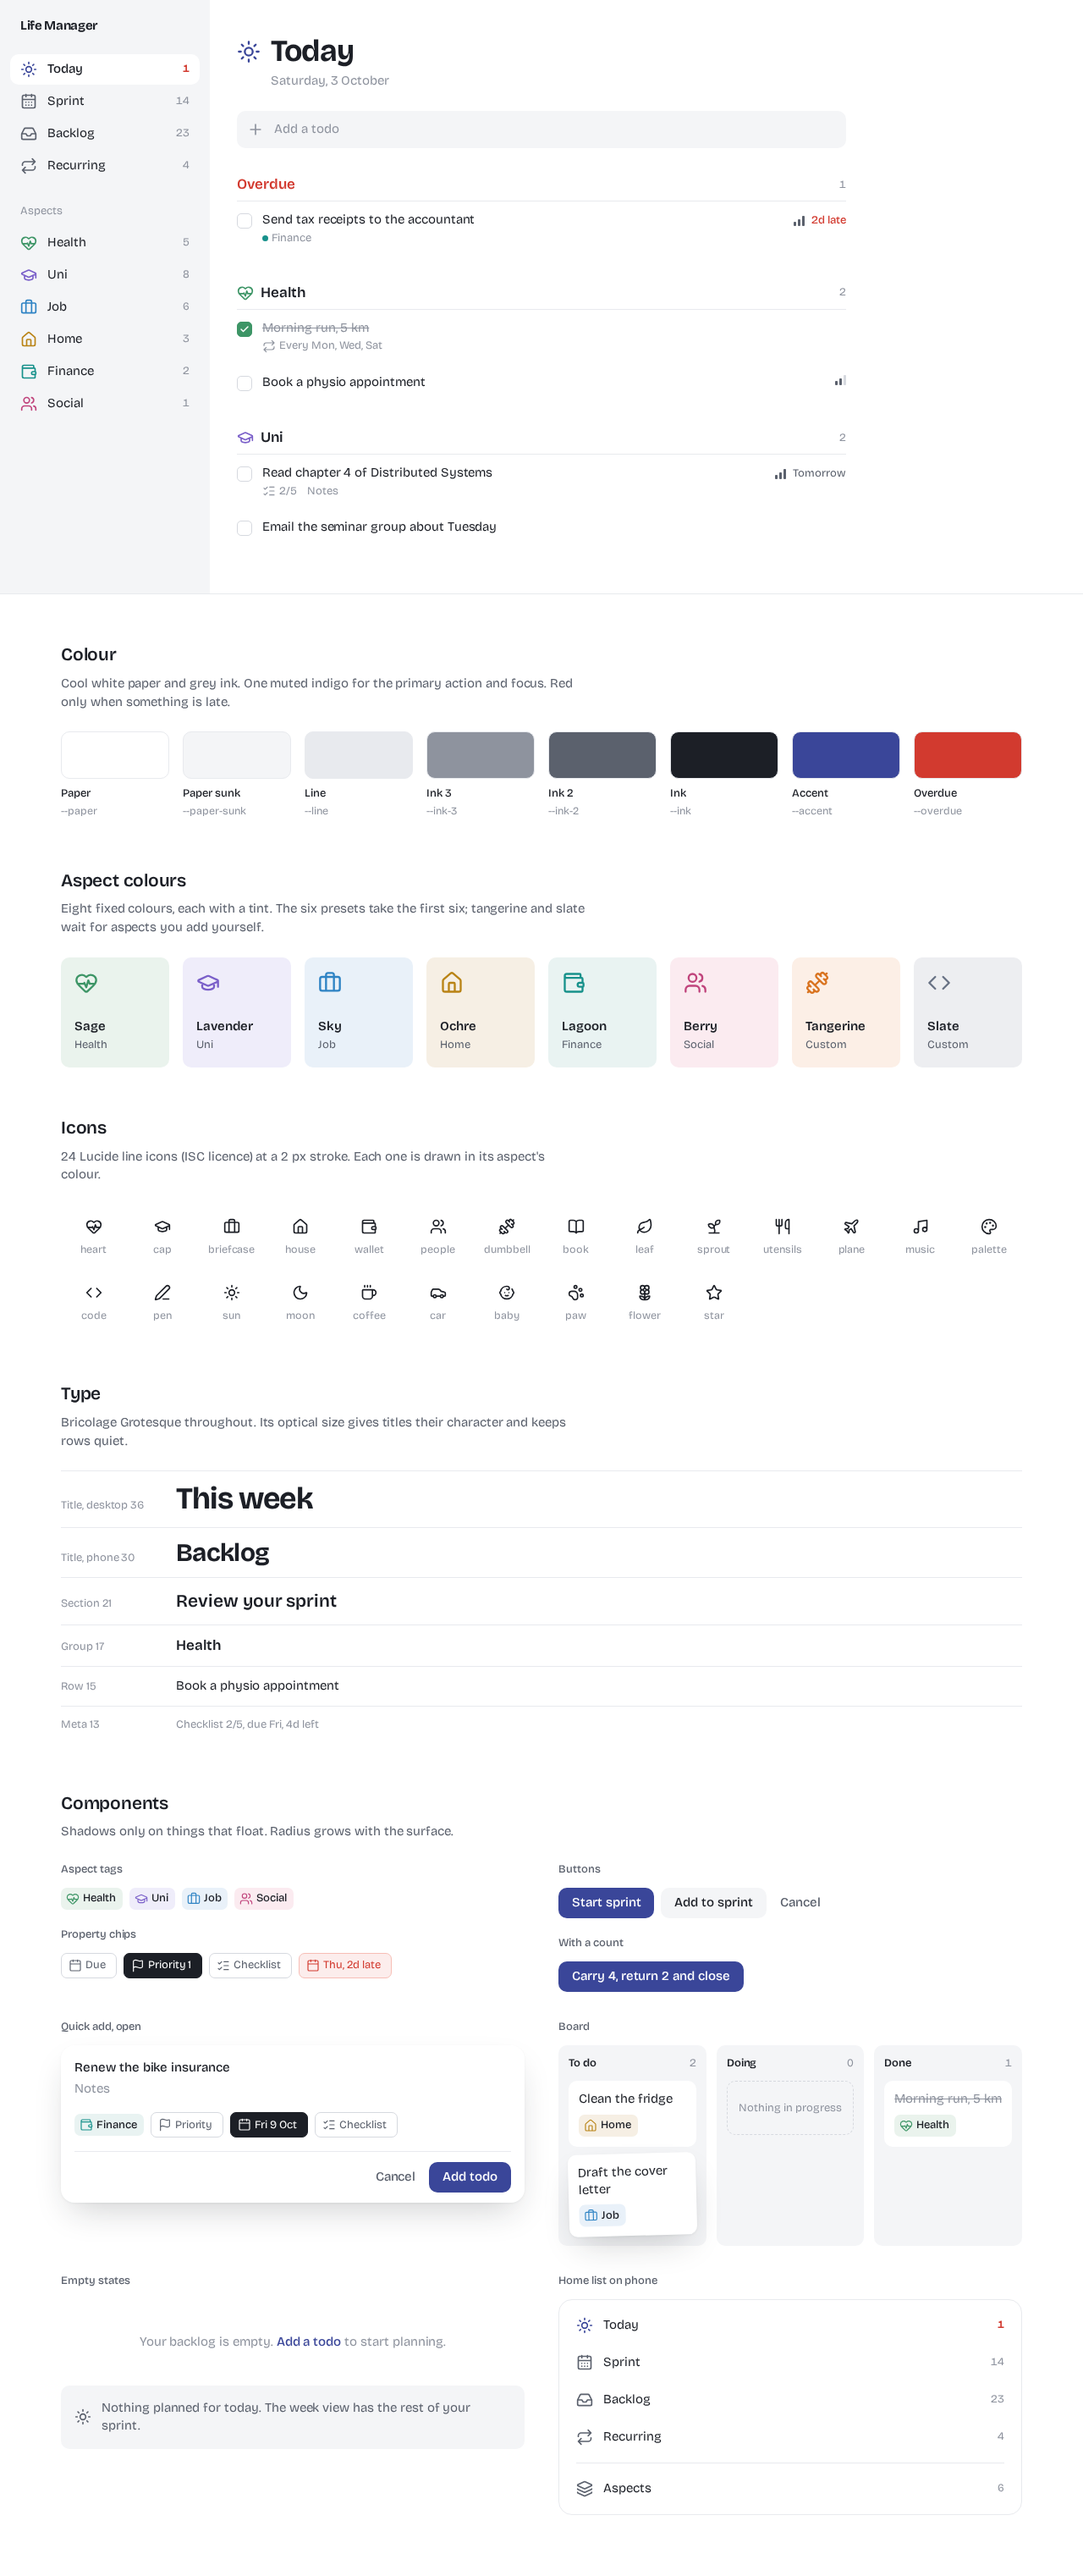
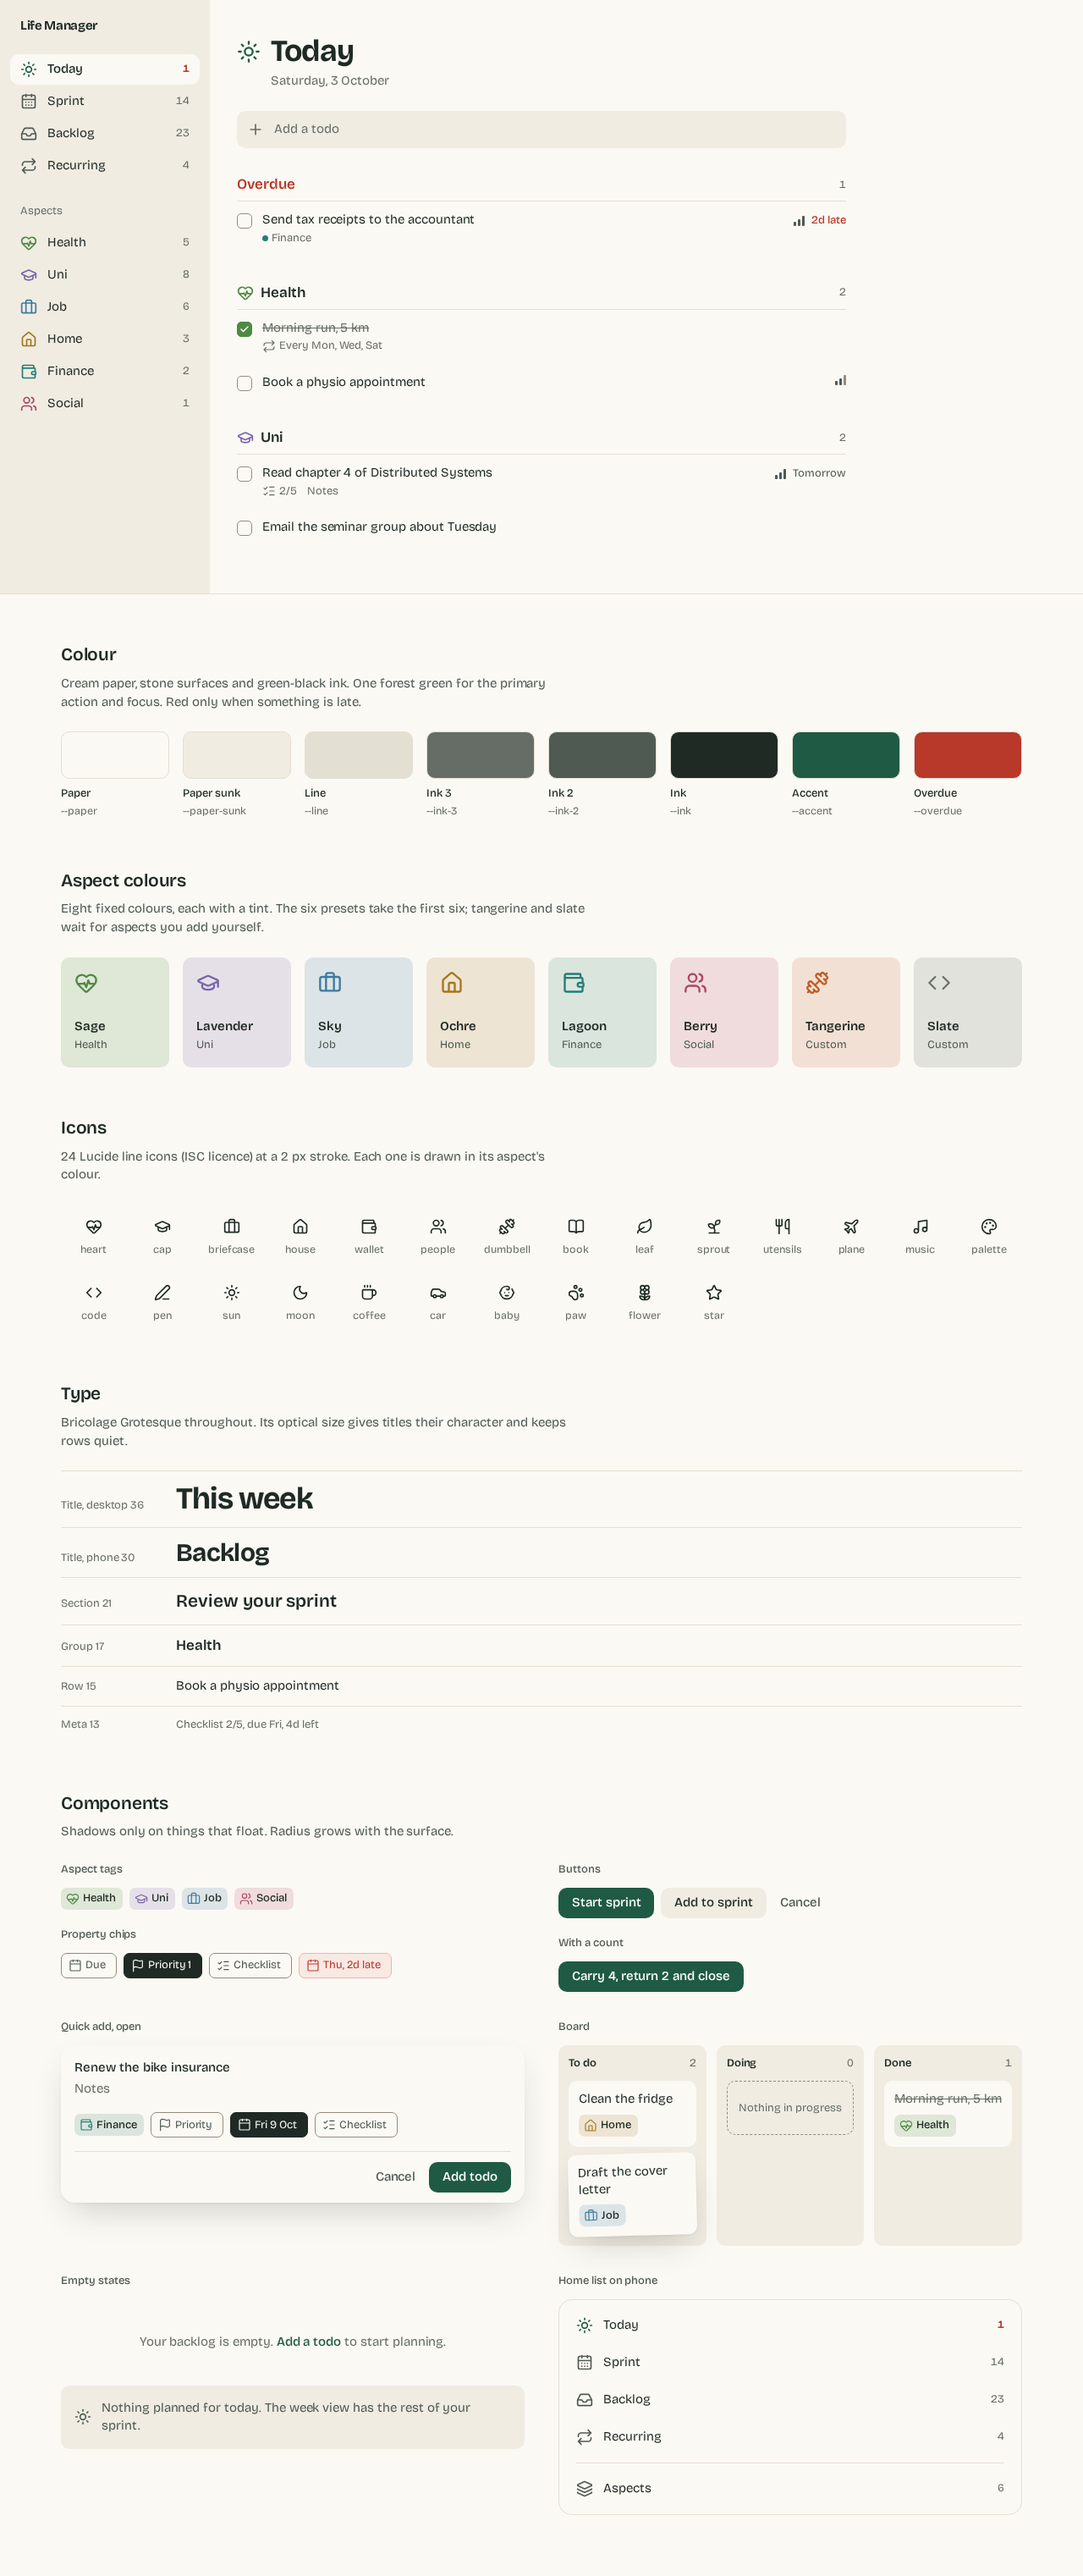
flow(build-life-manager): fold palette C into tokens, checkbox outline to 3:1

diff --git a/src/lib/styles/tokens.css b/src/lib/styles/tokens.css
@@ -7,45 +7,48 @@
 :root {
 	color-scheme: light;
 
-	/* Neutrals: cool paper, never cream; ink is a true dark grey, not tinted black. */
-	--paper: #ffffff;
-	--paper-sunk: #f4f5f7;
-	--paper-hover: #f7f8fa;
-	--paper-scrim: rgb(28 31 38 / 0.18);
-	--line: #e8eaee;
-	--line-strong: #d6d9df;
-	--ink: #1c1f26;
-	--ink-2: #5b616d;
-	--ink-3: #8e939e;
+	/* Neutrals: cream page, stone-beige sunk surfaces, green-black ink (palette C, Lifesum). */
+	--paper: #fbf9f4;
+	--paper-sunk: #f0ece2;
+	--paper-hover: #f6f3ec;
+	--paper-scrim: rgb(35 45 38 / 0.18);
+	--line: #e4dfd3;
+	/* Darkest stone that still reads calm: the unchecked checkbox outline needs 3:1 on paper and paper-hover. */
+	--line-strong: #948c7d;
+	--ink: #1f2a24;
+	--ink-2: #4f5a53;
+	--ink-3: #666d66;
 	--ink-on-accent: #ffffff;
 
-	/* The one accent: a muted indigo, for the primary action, focus and "today". */
-	--accent: #3a4699;
-	--accent-hover: #2f3a85;
-	--accent-soft: #eceefa;
+	/* The one accent: deep forest green, for the primary action, focus and "today". */
+	--accent: #1f5a44;
+	--accent-hover: #174836;
+	--accent-soft: #e4ede6;
 
 	/* Red is reserved for overdue. */
-	--overdue: #d23a2f;
-	--overdue-soft: #fcedec;
+	--overdue: #b8382a;
+	--overdue-soft: #f8e9e3;
 
-	/* Aspect palette — the only saturated colours in the app. Keys match ASPECT_COLORS. */
-	--aspect-sage: #3d9566;
-	--aspect-sky: #2e83c4;
-	--aspect-lavender: #7a5fc9;
-	--aspect-ochre: #b98314;
-	--aspect-berry: #c0447c;
-	--aspect-lagoon: #17918b;
-	--aspect-tangerine: #d9731f;
-	--aspect-slate: #677184;
+	/* Aspect palette — the only saturated colours in the app. Keys match ASPECT_COLORS.
+	   Botanical, a little desaturated so they sit on cream without glowing. */
+	--aspect-sage: #4f8a43;
+	--aspect-sky: #3c7aa0;
+	--aspect-lavender: #7964a8;
+	--aspect-ochre: #a47718;
+	--aspect-berry: #a94866;
+	--aspect-lagoon: #237e74;
+	--aspect-tangerine: #bd5f26;
+	--aspect-slate: #6a7369;
 
-	--aspect-sage-tint: color-mix(in oklch, var(--aspect-sage) 11%, var(--paper));
-	--aspect-sky-tint: color-mix(in oklch, var(--aspect-sky) 11%, var(--paper));
-	--aspect-lavender-tint: color-mix(in oklch, var(--aspect-lavender) 11%, var(--paper));
-	--aspect-ochre-tint: color-mix(in oklch, var(--aspect-ochre) 13%, var(--paper));
-	--aspect-berry-tint: color-mix(in oklch, var(--aspect-berry) 11%, var(--paper));
-	--aspect-lagoon-tint: color-mix(in oklch, var(--aspect-lagoon) 11%, var(--paper));
-	--aspect-tangerine-tint: color-mix(in oklch, var(--aspect-tangerine) 12%, var(--paper));
-	--aspect-slate-tint: color-mix(in oklch, var(--aspect-slate) 11%, var(--paper));
+	/* oklab, not oklch: oklch swings an aspect's hue toward the warm paper's hue. */
+	--aspect-sage-tint: color-mix(in oklab, var(--aspect-sage) 16%, var(--paper));
+	--aspect-sky-tint: color-mix(in oklab, var(--aspect-sky) 16%, var(--paper));
+	--aspect-lavender-tint: color-mix(in oklab, var(--aspect-lavender) 16%, var(--paper));
+	--aspect-ochre-tint: color-mix(in oklab, var(--aspect-ochre) 16%, var(--paper));
+	--aspect-berry-tint: color-mix(in oklab, var(--aspect-berry) 16%, var(--paper));
+	--aspect-lagoon-tint: color-mix(in oklab, var(--aspect-lagoon) 16%, var(--paper));
+	--aspect-tangerine-tint: color-mix(in oklab, var(--aspect-tangerine) 16%, var(--paper));
+	--aspect-slate-tint: color-mix(in oklab, var(--aspect-slate) 16%, var(--paper));
 
 	/* Type: one family, Bricolage Grotesque — its optical-size axis makes titles
 	   characterful and rows quiet. Loaded by the app (self-hosted) or the style tile. */
@@ -104,8 +107,8 @@
 	--radius-pill: 999px;
 
 	/* Shadow: only floating surfaces have one; list rows never do. */
-	--shadow-pop: 0 1px 2px rgb(28 31 38 / 0.06), 0 6px 16px -4px rgb(28 31 38 / 0.12);
-	--shadow-float: 0 1px 3px rgb(28 31 38 / 0.05), 0 18px 40px -12px rgb(28 31 38 / 0.22);
+	--shadow-pop: 0 1px 2px rgb(35 45 38 / 0.06), 0 6px 16px -4px rgb(35 45 38 / 0.12);
+	--shadow-float: 0 1px 3px rgb(35 45 38 / 0.05), 0 18px 40px -12px rgb(35 45 38 / 0.22);
 	--ring-focus: 0 0 0 2px var(--paper), 0 0 0 4px var(--accent);
 
 	/* Motion: only in answer to an action. */

diff --git a/design/style-tile.html b/design/style-tile.html
@@ -436,7 +436,7 @@
 <div class="specimen">
 	<section>
 		<h2 class="sec-title">Colour</h2>
-		<p class="sec-note">Cool white paper and grey ink. One muted indigo for the primary action and focus. Red only when something is late.</p>
+		<p class="sec-note">Cream paper, stone surfaces and green-black ink. One forest green for the primary action and focus. Red only when something is late.</p>
 		<div class="swatches">
 			<div class="swatch"><div class="chip-color" style="background: var(--paper)"></div><b>Paper</b><small>--paper</small></div>
 			<div class="swatch"><div class="chip-color" style="background: var(--paper-sunk)"></div><b>Paper sunk</b><small>--paper-sunk</small></div>

diff --git a/design/brief.md b/design/brief.md
@@ -1,7 +1,7 @@
 # Design brief — Life Manager
 
 A calm, high-end personal planner for a handful of life aspects and one weekly sprint.
-The feel is Things 3: a white page, quiet rows, big titles, and colour that belongs only
+The feel is Things 3: a quiet page, quiet rows, big titles, and colour that belongs only
 to the aspects. Mobbin has no Sunsama, Akiflow or Things for web/Mac
 (see `openspec/changes/build-life-manager/design-refs.md`), so the desktop and
 planning patterns come from Linear, Amie, Todoist and Motion on web.
@@ -15,13 +15,22 @@ Applied: `design/style-tile.html` (screenshots in `design/shots/`).
 
 ## 1. Colour
 
-- **White page, cool greys, no cream.** `--paper` is pure white; the sidebar,
-  quick-add field and empty-state boxes sit on `--paper-sunk` (a cool `#f4f5f7`).
+**Chosen palette: C — Forest and stone** (taste gate 2.5, 2026-10-03; scope.md Decisions).
+A botanical journal: cream page, stone-beige sunk surfaces, green-black ink, a deep
+forest-green accent `#1f5a44` and moss-and-clay aspects. Its values live in
+`src/lib/styles/tokens.css`; A, B, D and E were considered and are kept as the record
+under "Palette options" below.
+— Lifesum diary on beige with forest-green brand, https://mobbin.com/screens/7f1180e8-1839-4859-90cc-96b966c08c77;
+Lifesum cream cards, https://mobbin.com/screens/47f02898-978e-4ff9-a9d0-7d6b32a39a3f;
+Lifesum calendar with green-ringed today, https://mobbin.com/screens/3a530be6-95f5-4a70-8eb1-155b5da7275b
+
+- **Cream page, stone surfaces.** `--paper` is cream `#fbf9f4`; the sidebar,
+  quick-add field and empty-state boxes sit on `--paper-sunk` (stone `#f0ece2`).
   Dividers are single hairlines (`--line`), never boxes around rows.
   — Things 3 Anytime, https://mobbin.com/screens/9f0d2a69-0445-4c6d-a4ab-94275b5be1b7;
-  Linear sidebar on a barely-grey surface, https://mobbin.com/screens/610d34b6-6ad8-45ab-80fb-2107b31ed01e
+  Lifesum beige sunk surface, https://mobbin.com/screens/7f1180e8-1839-4859-90cc-96b966c08c77
 - **Aspects carry the only saturation.** Eight fixed colours (sage, sky, lavender, ochre,
-  berry, lagoon, tangerine, slate), each with an 11 % tint. The colour shows up as the
+  berry, lagoon, tangerine, slate), each with a 16 % tint mixed `in oklab`. The colour shows up as the
   aspect icon, the aspect dot on a row, the tag chip tint, and the fill of a checked
   checkbox. Everything else is greyscale.
   — Things 3 area page with tinted icon, https://mobbin.com/screens/f16197bf-3c84-4272-8f80-fa8c7c03a2aa;
@@ -29,11 +38,12 @@ Applied: `design/style-tile.html` (screenshots in `design/shots/`).
   Linear icon/colour popover, https://mobbin.com/screens/a86f5e89-4f58-4e0f-94a5-c2687116c75e
 - **Eight colours, not a colour wheel.** A curated set with the selected swatch ringed.
   — ChatGPT project picker (8 colours), https://mobbin.com/screens/cbb0211c-cd4c-4af7-81af-3e37991645ca
-- **One accent, muted indigo (`--accent`).** It marks the primary button, focus rings, the
+- **One accent, forest green (`--accent`).** It marks the primary button, focus rings, the
   selected sidebar item's icon and "today" in the week view. It is deliberately dark and
   low-chroma so it reads as "ink with intent", not as another aspect colour. Todoist uses a
   loud red for the same jobs; we keep the job and drop the loudness.
-  — Todoist sidebar + "Add task" primary, https://mobbin.com/screens/9a3efd63-6ad3-48a4-a655-2c5e6c4a8bbe;
+  — Lifesum forest-green brand on stone, https://mobbin.com/screens/7f1180e8-1839-4859-90cc-96b966c08c77;
+  Todoist sidebar + "Add task" primary, https://mobbin.com/screens/9a3efd63-6ad3-48a4-a655-2c5e6c4a8bbe;
   Motion "today" as a solid square date badge, https://mobbin.com/screens/28001df3-b3ba-4ed4-854c-cea779f7ec2f
 - **Red means overdue, nothing else.** Overdue due dates are red text at the row's right
   edge. The Today view's overdue section gets a red count in its header. Delete buttons
@@ -83,7 +93,7 @@ Applied: `design/style-tile.html` (screenshots in `design/shots/`).
   — Things 3 two-line row, https://mobbin.com/screens/29f65b3c-d42a-4873-a072-ff9de00f0121;
   Amie right-aligned date chips, https://mobbin.com/screens/1ad438ff-b489-41ba-aa9d-01d7c8b8317d
 - **Checkbox: a rounded square that takes the aspect's colour when done.** Unchecked is a
-  1.5 px `--line-strong` outline. Checked fills with the aspect colour and shows a white tick.
+  1.5 px `--line-strong` outline, at least 3:1 on `--paper` and `--paper-hover` (WCAG 1.4.11). Checked fills with the aspect colour and shows a white tick.
   Done rows stay in the list with the title struck through in `--ink-3` until the sprint
   closes. Completing a todo is where the aspect colour appears.
   — Rox filled checkbox + struck-through completed task, https://mobbin.com/screens/9afac370-aa6f-4ff5-9679-9d9d4c02cf3d;
@@ -131,7 +141,7 @@ Applied: `design/style-tile.html` (screenshots in `design/shots/`).
 ## 5. Views
 
 - **Board (To do / Doing / Done)** has three columns on `--paper-sunk` with the column name
-  and count on top. Cards are white with the aspect tag chip, without shadow until lifted
+  and count on top. Cards are `--paper` with the aspect tag chip, without shadow until lifted
   for a drag. An empty column shows a dashed hairline placeholder.
   — Linear grouped-by-status with counts, https://mobbin.com/screens/10d46768-7ef5-4140-9f5f-22a97a207759
 - **Week by day** has seven day columns plus Unscheduled, each with "Mon 6" as the header in
@@ -158,7 +168,7 @@ Applied: `design/style-tile.html` (screenshots in `design/shots/`).
   overdue on Today). Rows drill down, and every page has a back chevron to the list.
   — Things 3 home list, https://mobbin.com/screens/70077bc2-0d33-4247-845d-3b656f8fb324
 - **Desktop: a 248 px sidebar on `--paper-sunk`.** It holds the same items with grey counts.
-  The selected item gets a white rounded fill and an accent-tinted icon, with no border and
+  The selected item gets a `--paper` rounded fill and an accent-tinted icon, with no border and
   no left bar. Aspects are listed under a small sentence-case "Aspects" label.
   — Todoist web sidebar, https://mobbin.com/screens/9a3efd63-6ad3-48a4-a655-2c5e6c4a8bbe;
   Linear sidebar, https://mobbin.com/screens/610d34b6-6ad8-45ab-80fb-2107b31ed01e
@@ -202,6 +212,9 @@ Applied: `design/style-tile.html` (screenshots in `design/shots/`).
 
 ## Palette options
 
+**Resolved: C was chosen** (see the top of section 1). A, B, D and E are considered options,
+kept with their files as the record. The text below describes the options as they were offered.
+
 Taste-gate revision: Rue asked for alternative palettes. Five options sit side by side in
 `design/palettes/index.html` (screenshot `design/shots/palettes-index.png`), each with a full
 style tile (`design/palettes/<letter>-<slug>.html`, shots `design/shots/palettes-*.png`). Each
@@ -212,33 +225,36 @@ theme only, aspects carry the saturation, red only for overdue. New palettes mix
 
 `node design/palettes/check-contrast.mjs` checks 67 pairs per palette (ink levels on every
 paper, accent and overdue text, white on accent, ink on each aspect tint at 4.5:1; aspect icons on
-paper, sunk and tint, and the white tick on each aspect at 3:1). B–E pass. **A, as shipped in
+paper, sunk and tint, and the white tick on each aspect at 3:1). B–E pass. **A, as first shipped in
 tokens.css, fails 8**: `--ink-3` is 2.8–3.1:1 on the papers (metadata text needs 4.5),
 `--overdue` is 4.2–4.4:1 on sunk and overdue-soft, ochre and tangerine sit just under 3:1 on
 their tints. If A is kept, these values pass (checked): `--ink-3` `#686e79`, `--overdue` `#c4342a`,
 `--aspect-ochre` `#a87712`, `--aspect-tangerine` `#cc6a1a`.
 Unchecked checkbox outlines (`--line-strong`) are 1.4–1.6:1 in every palette, a Things-like
-choice that falls short of WCAG 1.4.11's 3:1.
+choice that falls short of WCAG 1.4.11's 3:1. Folding C into tokens.css raised it from
+`#d0c8b8` (1.58:1) to `#948c7d` (3.16:1 on paper, 3.00:1 on paper-hover), the lightest stone of
+the same hue that passes; `node design/palettes/check-contrast.mjs --tokens` checks tokens.css
+with those two outline pairs added.
 
-- **A — Cool indigo** (`#3a4699`, cool neutrals). The current palette: white, cool greys, muted
+- **A — Cool indigo** (considered; `#3a4699`, cool neutrals). The first U2 palette: white, cool greys, muted
   indigo. — Things 3 Anytime, https://mobbin.com/screens/9f0d2a69-0445-4c6d-a4ab-94275b5be1b7;
   Linear sidebar, https://mobbin.com/screens/610d34b6-6ad8-45ab-80fb-2107b31ed01e
-- **B — Warm paper** (`#7a4a2b` umber, warm neutrals). A writing desk: warm off-white `#fdfcfa`,
+- **B — Warm paper** (considered; `#7a4a2b` umber, warm neutrals). A writing desk: warm off-white `#fdfcfa`,
   greige sunk surfaces, graphite ink with a brown undertone, earthy dusty aspects.
   — Notion web warm-grey sidebar and earthy swatch set, https://mobbin.com/screens/f9ac8f67-4813-4e30-9a68-88bbceee49c8;
   Notion muted tinted select chips, https://mobbin.com/screens/fffb95e6-b486-471e-936a-fdfec96f1039;
   Bear Red Graphite theme, https://mobbin.com/screens/eb0ecb23-69b4-4edb-aa50-2057f0fb9567
-- **C — Forest and stone** (`#1f5a44` forest green, warm cream neutrals). A botanical journal:
+- **C — Forest and stone** (**chosen**; `#1f5a44` forest green, warm cream neutrals). A botanical journal:
   cream page `#fbf9f4`, stone-beige sunk, green-black ink, moss-and-clay aspects.
   — Lifesum diary on beige with forest-green brand, https://mobbin.com/screens/7f1180e8-1839-4859-90cc-96b966c08c77;
   Lifesum cream cards, https://mobbin.com/screens/47f02898-978e-4ff9-a9d0-7d6b32a39a3f;
   Lifesum calendar with green-ringed today, https://mobbin.com/screens/3a530be6-95f5-4a70-8eb1-155b5da7275b
-- **D — Lilac and ink** (`#1d1b26` near-black ink, lilac-tinted neutrals). Soft and kind: white
+- **D — Lilac and ink** (considered; `#1d1b26` near-black ink, lilac-tinted neutrals). Soft and kind: white
   page, lilac-grey surfaces, black primary buttons, pastel-leaning aspects with fuller 18 % tints.
   — Tiimo Today with time-of-day pills, https://mobbin.com/screens/f6a61b24-612d-4536-8ca0-375231808968;
   Tiimo remaining tasks, lilac date pill and black counted CTA, https://mobbin.com/screens/f7678d38-0b0e-4451-a6fa-9b1952438e77;
   Tiimo assistant on lilac haze, https://mobbin.com/screens/ed164b6c-6952-48e5-b56b-32a747e08c73
-- **E — Clear and vivid** (`#0b63d1` azure, true-neutral greys). Bright daylight: pure white,
+- **E — Clear and vivid** (considered; `#0b63d1` azure, true-neutral greys). Bright daylight: pure white,
   no colour cast in the greys, saturated aspects carried by their tints.
   — Amie web week view with pastel blocks and azure Share, https://mobbin.com/screens/ff9b0ff4-cdf3-465c-9959-eba67c46fa3f;
   Amie event popover, https://mobbin.com/screens/e0aa2b7a-da53-4755-a486-887651fc5e54;
